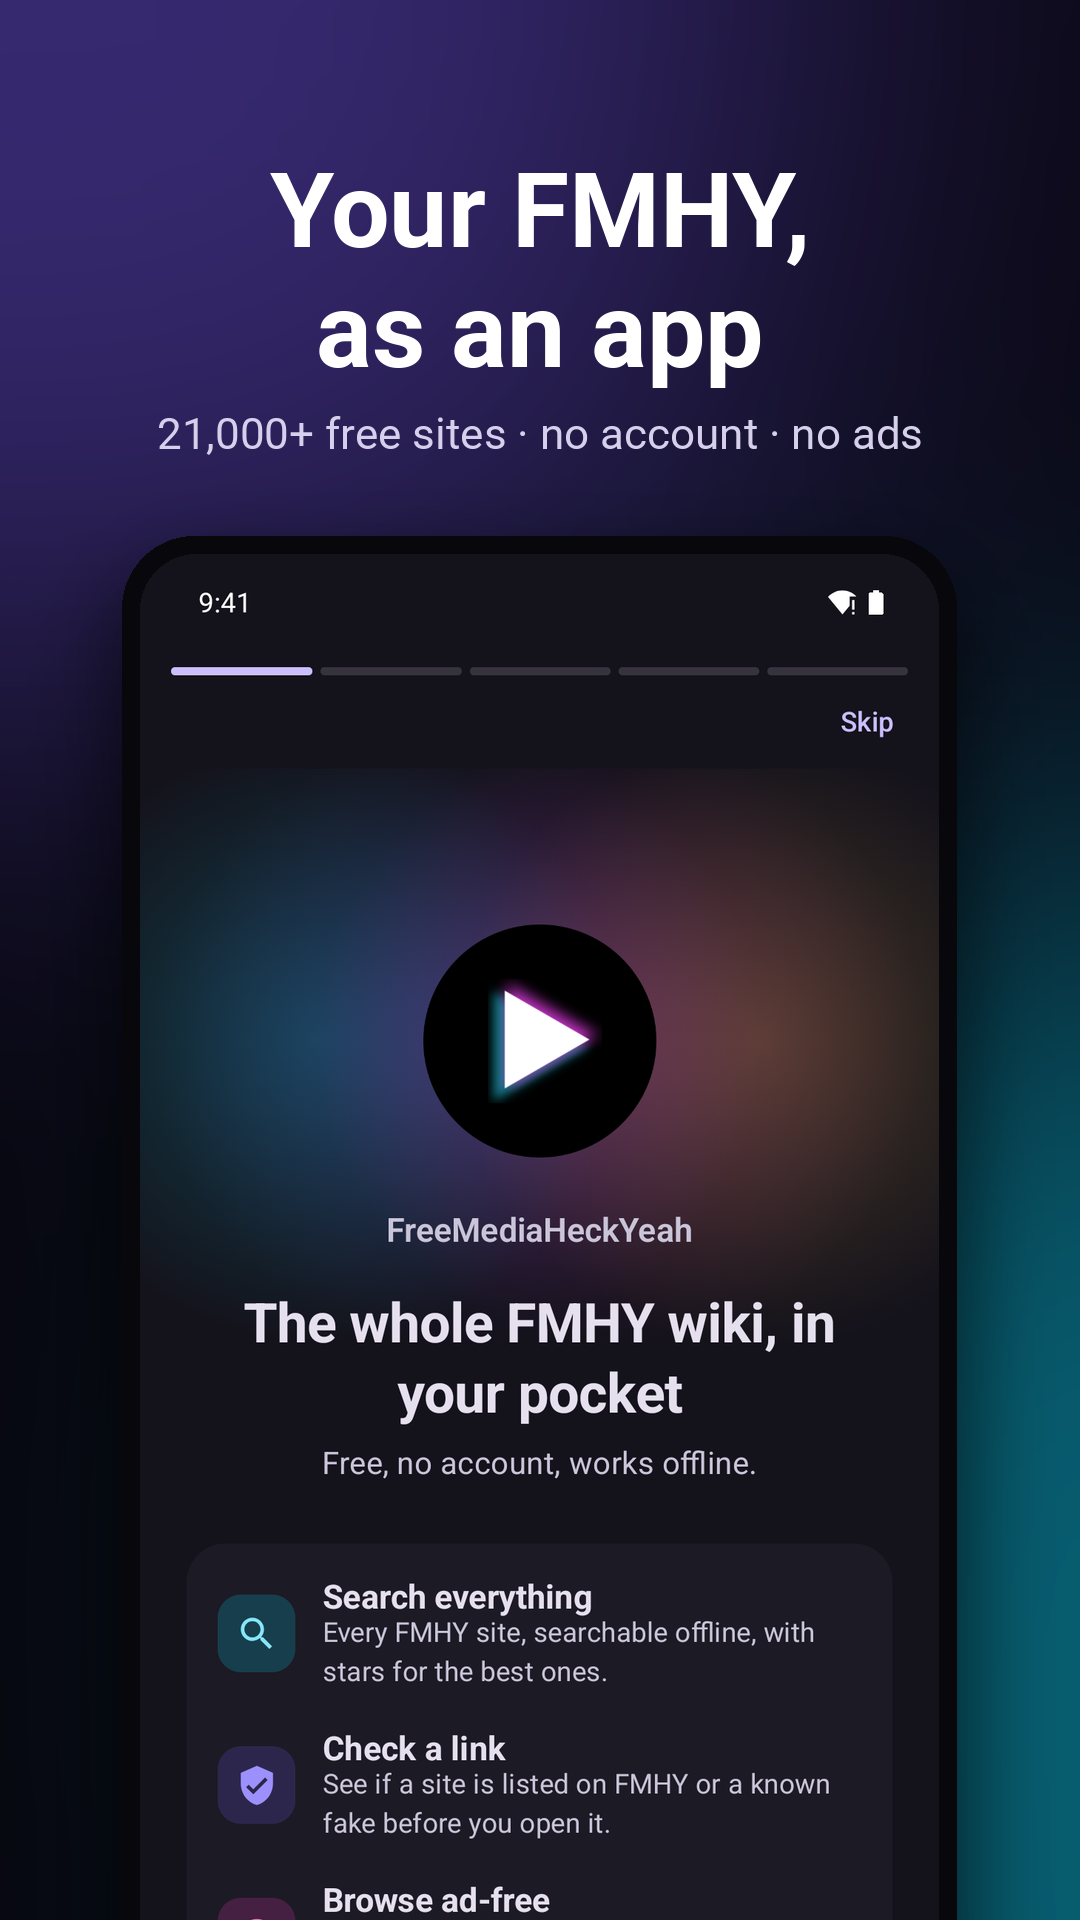
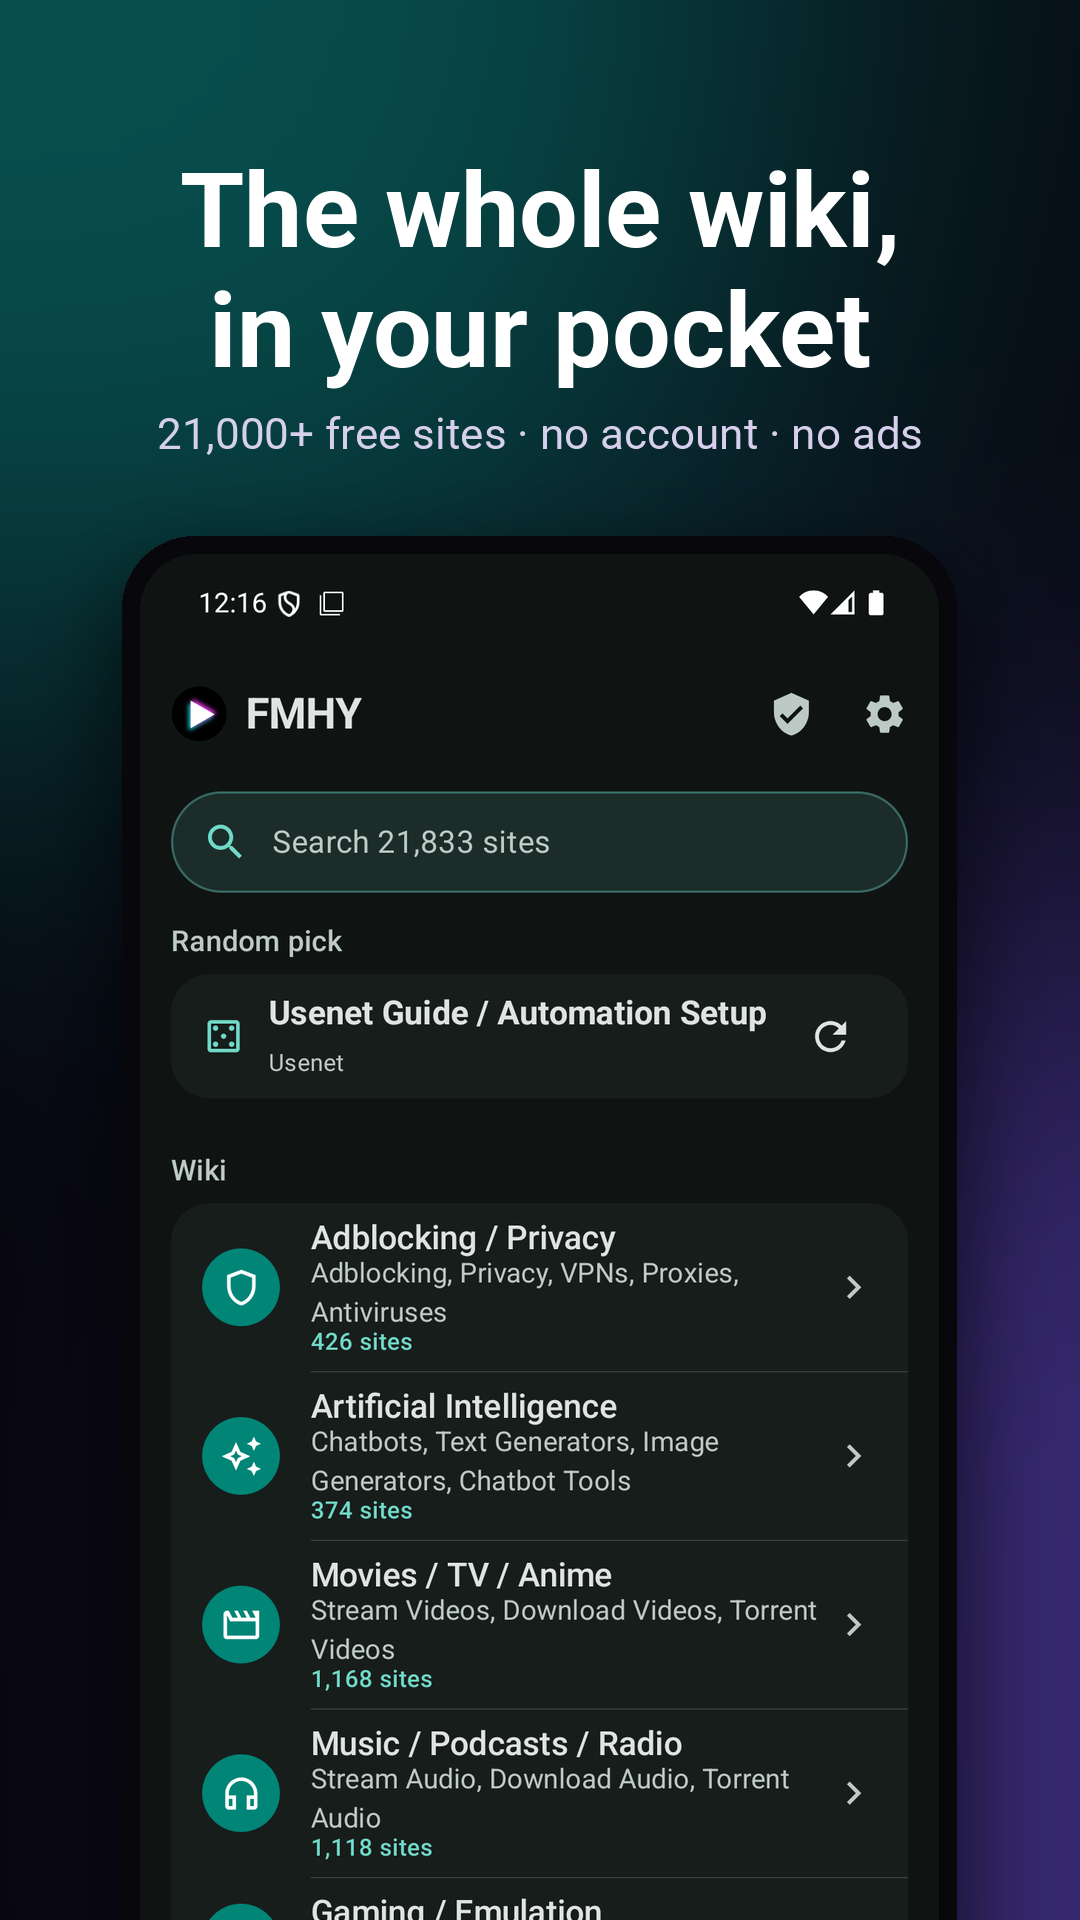
release: 1.0.0 (versionCode 11), changelog, README and six new store screenshots

diff --git a/tools/store-frames.py b/tools/store-frames.py
@@ -11,19 +11,17 @@ W, H = 1080, 1920
 BOLD = "/usr/share/fonts/TTF/Roboto-Bold.ttf"
 REG = "/usr/share/fonts/TTF/Roboto-Regular.ttf"
 
-# Logo palette: cyan, violet, magenta, amber
-GLOWS = [(0, 229, 255), (124, 92, 255), (255, 62, 201), (255, 193, 77)]
+# One glow per accent palette used in the shots (teal, pink, green, amber, blue, orange)
+GLOWS = [(0, 191, 165), (255, 64, 129), (76, 175, 80), (255, 179, 0), (41, 121, 255), (255, 87, 34), (124, 92, 255)]
 
 FRAMES = [
     # (screenshot, headline, subline, glow colours, fraction of the screen skipped from the top)
-    ("raw-welcome.png", "Your FMHY,\nas an app", "21,000+ free sites · no account · no ads", (1, 0), 0),
-    ("raw-search.png", "Find anything\nin a second", "Offline, typo-proof search with smart filters", (0, 1), 0),
-    ("raw-section.png", "The best sites,\nstarred", "Every section, with FMHY's own top picks", (2, 3), 0),
-    ("raw-browser.png", "Browse without\nthe junk", "Ad blocking + a live FMHY check on every page", (1, 2), 0),
-    ("raw-check.png", "Check a link\nbefore you click", "See if a site is on FMHY, starred, or a fake", (3, 1), 0),
-    ("raw-hub.png", "Never miss\nwhat changed", "Every new, starred and removed site, day by day", (0, 2), 0),
-    ("raw-menu.png", "Your browser,\none tap away", "Tabs and private tabs, right in the bottom bar", (2, 0), 0.42),
-    ("raw-look.png", "Make it\nyours", "Light, dark, Material You or any accent", (3, 0), 0.24),
+    ("raw-welcome.png", "The whole wiki,\nin your pocket", "21,000+ free sites · no account · no ads", (0, 6), 0),
+    ("raw-search.png", "Find anything\nin a second", "Offline, typo-proof search with smart filters", (1, 6), 0),
+    ("raw-section.png", "The best sites,\nstarred", "Every section, in FMHY's own order", (3, 5), 0),
+    ("raw-check.png", "Check a link\nbefore you click", "See if a site is on FMHY, starred, or a fake", (4, 0), 0),
+    ("raw-hub.png", "Never miss\nwhat changed", "Every new, starred and removed site", (2, 4), 0),
+    ("raw-look.png", "Make it\nyours", "Light, dark, Material You and ten accents", (5, 1), 0),
 ]
 
 

diff --git a/README.md b/README.md
@@ -22,11 +22,23 @@ in a native app that keeps up with every change for you.
 </div>
 
 <p align="center">
-  <img src="fastlane/metadata/android/en-US/images/phoneScreenshots/1.png" width="200" alt="Your FMHY, as an app">
-  <img src="fastlane/metadata/android/en-US/images/phoneScreenshots/2.png" width="200" alt="Find anything in a second">
-  <img src="fastlane/metadata/android/en-US/images/phoneScreenshots/4.png" width="200" alt="Browse without the junk">
-  <img src="fastlane/metadata/android/en-US/images/phoneScreenshots/5.png" width="200" alt="Check a link before you click">
+  <img src="fastlane/metadata/android/en-US/images/phoneScreenshots/1.png" width="160" alt="The whole wiki, in your pocket">
+  <img src="fastlane/metadata/android/en-US/images/phoneScreenshots/2.png" width="160" alt="Find anything in a second">
+  <img src="fastlane/metadata/android/en-US/images/phoneScreenshots/3.png" width="160" alt="The best sites, starred">
+  <img src="fastlane/metadata/android/en-US/images/phoneScreenshots/4.png" width="160" alt="Check a link before you click">
+  <img src="fastlane/metadata/android/en-US/images/phoneScreenshots/5.png" width="160" alt="Never miss what changed">
+  <img src="fastlane/metadata/android/en-US/images/phoneScreenshots/6.png" width="160" alt="Make it yours">
 </p>
+
+## New in 1.0.0
+
+- **Built-in download manager**: files from the in-app browser download inside the app, with progress, pause and resume, a "download this video" button, and optional VirusTotal / Hybrid Analysis checks (your own free key, off by default).
+- **In-app updates**: the app tells you about a new release and updates with one tap. Nothing installs without you.
+- **Wi-Fi only options** for downloads, browsing and updates, and a **Report a problem** button that never sends anything by itself.
+- **A calmer, faster browser**: smoother scrolling and pinch zoom, a hold menu on links, tab groups, a back-to-FMHY button and fixes for sites that never loaded.
+- **Ten vibrant accent palettes**, a proper light mode, a choice of bottom bar styles and swiping between screens.
+- **Pin sections to Home** from anywhere you can follow them, and **"Since last visit"** in What's new.
+- Settings re-sorted, with a search.
 
 ---
 
@@ -74,12 +86,6 @@ in a native app that keeps up with every change for you.
 - One row per line of the wiki: tap for every site on that line with its mirrors and extra links, hold to open it.
 - The beginner's guide, notes, FAQ and FMHY's posts, readable in the app.
 
-<p align="center">
-  <img src="fastlane/metadata/android/en-US/images/phoneScreenshots/3.png" width="200" alt="The best sites, starred">
-  <img src="fastlane/metadata/android/en-US/images/phoneScreenshots/6.png" width="200" alt="Never miss what changed">
-  <img src="fastlane/metadata/android/en-US/images/phoneScreenshots/7.png" width="200" alt="Your browser, one tap away">
-  <img src="fastlane/metadata/android/en-US/images/phoneScreenshots/8.png" width="200" alt="Make it yours">
-</p>
 
 ## Download
 
